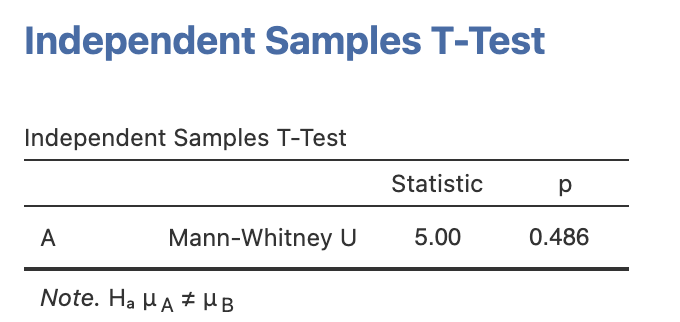
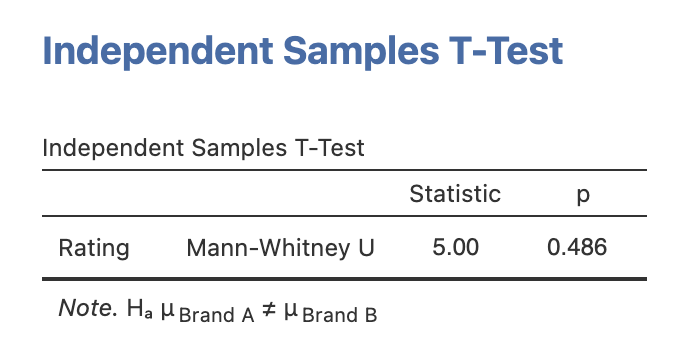
images nonparametric

Changed region(s): [[0.0309, 0.3727, 0.9574, 0.7764], [0.0309, 0.0621, 0.8338, 0.1863], [0.0309, 0.8075, 0.9265, 0.9627]]

diff --git a/Lectures/Nonparametric_lecture.html b/Lectures/Nonparametric_lecture.html
@@ -250,7 +250,7 @@ The Mann-Whitney test orders all values and compares the ranks between the two g
 
 .pull-right[
 
-&lt;img src="images/mwResults.png" alt="" width="75%" /&gt;
+&lt;img src="images/mwU.png" alt="" width="75%" /&gt;&lt;img src="images/mwResults.png" alt="" width="75%" /&gt;
 
 ]
 
